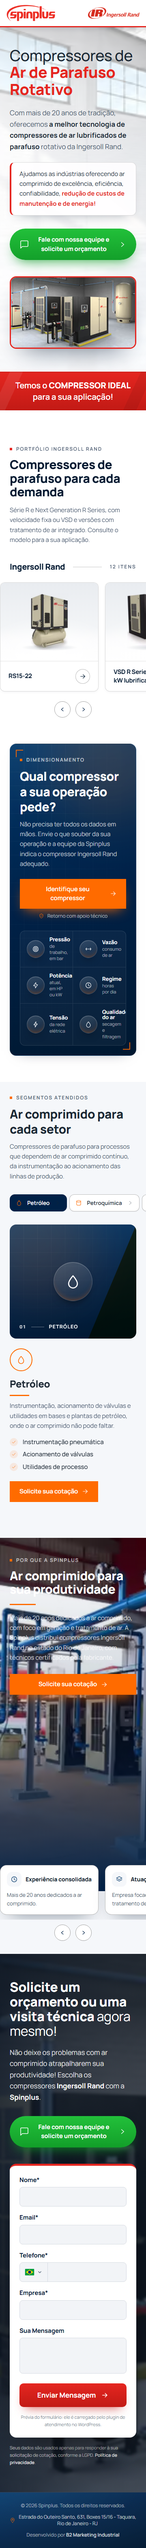
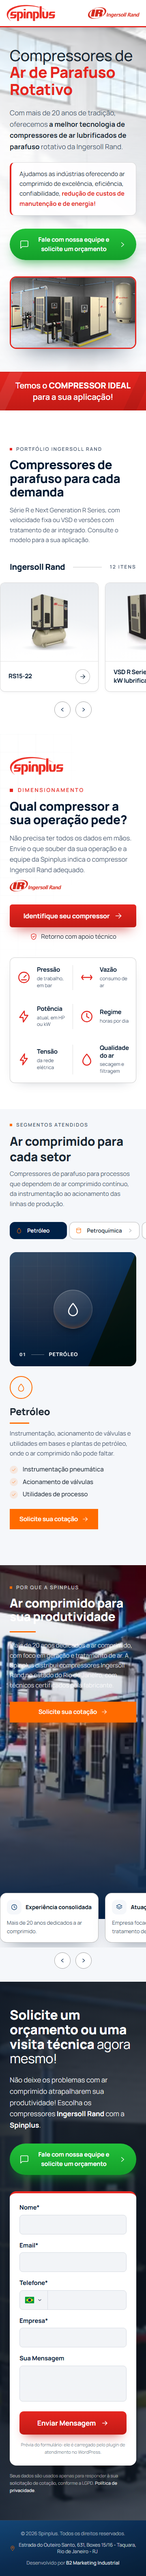
feat: dimensionamento no layout aprovado pela Spinplus
Seção clara com desenho técnico da sala de compressores, logo Spinplus, título, logo Ingersoll Rand, botão vermelho e faixa branca com os 6 dados em ícones vermelhos.

Changed region(s): [[0.0, 0.0, 1.0, 0.9044], [0.0611, 0.9356, 0.825, 0.9979]]

diff --git a/src/data/sections/identificar.ts b/src/data/sections/identificar.ts
@@ -9,6 +9,10 @@
  * inferidos (o briefing não traz a lista do comercial). Confirmar com a Spinplus.
  */
 import type { IconName } from '@data/icons'
+import type { Photo } from '@data/types'
+
+// Desenho técnico gerado das bordas da foto da sala de compressores (layout do cliente).
+import esboco from '@assets/identificar/esboco-sala.png'
 
 export interface SupportItem {
   icon: IconName
@@ -21,8 +25,10 @@ export const supportPanel = {
   title: 'Qual compressor a sua operação pede?',
   text: 'Não precisa ter todos os dados em mãos. Envie o que souber da sua operação e a equipe da Spinplus indica o compressor Ingersoll Rand adequado.',
   microcopy: 'Retorno com apoio técnico',
+  /** Fundo decorativo à direita (desktop): desenho técnico da sala de compressores. */
+  sketch: { src: esboco, alt: '' },
   items: [
-    { icon: 'target', label: 'Pressão', hint: 'de trabalho, em bar' },
+    { icon: 'gauge', label: 'Pressão', hint: 'de trabalho, em bar' },
     { icon: 'move', label: 'Vazão', hint: 'consumo de ar' },
     { icon: 'bolt', label: 'Potência', hint: 'atual, em HP ou kW' },
     { icon: 'clock', label: 'Regime', hint: 'horas por dia' },
@@ -34,5 +40,6 @@ export const supportPanel = {
   title: string
   text: string
   microcopy: string
+  sketch: Photo
   items: readonly [SupportItem, SupportItem, SupportItem, SupportItem, SupportItem, SupportItem]
 }

diff --git a/src/data/icons.ts b/src/data/icons.ts
@@ -48,6 +48,8 @@ export const iconPaths = {
   wrench:
     '<path d="M14.7 6.3a4.5 4.5 0 0 0-6 5.3L3.5 16.8l3.2 3.2 5.2-5.2a4.5 4.5 0 0 0 5.3-6l-2.9 2.9-2.4-.6-.6-2.4 2.9-2.9Z"/>',
   clock: '<circle cx="12" cy="12" r="8.5"/><path d="M12 7v5.2l3.5 2"/>',
+  /** Manômetro: pressão de trabalho (Spinplus, painel de dimensionamento). */
+  gauge: '<circle cx="12" cy="12" r="8.5"/><path d="m12 12 3.6-3.6"/><path d="M8 16h8"/>',
   zap: '<path d="M13 3 6 13.5h5L10 21l7.5-10.5h-5L13 3Z"/>',
   'map-pin':
     '<path d="M12 21.5s7-6.6 7-11.8a7 7 0 1 0-14 0c0 5.2 7 11.8 7 11.8Z"/><circle cx="12" cy="9.7" r="2.4"/>',

diff --git a/docs/BRIEFING.md b/docs/BRIEFING.md
@@ -142,27 +142,29 @@ Aprovada pelo usuário em 15/10/2026 com a opção "inferir e publicar": Apoio e
 | Fundo do hero   | `src/assets/hero-fundo.jpg` | confirmado | galpão claro com janelas enviado pelo usuário em 15/10/2026 (1870×841), sob véu branco à esquerda   |
 | Logos de marcas | —                           | removido   | entrada 7: só o nome                                                                                |
 
-| Asset               | Arquivo                                     | Status     | Observação                                                                                                    |
-| ------------------- | ------------------------------------------- | ---------- | ------------------------------------------------------------------------------------------------------------- |
-| Fotos da vitrine    | `src/assets/vitrine/produto-01…12.jpg`      | confirmado | links do briefing; originais 300×300                                                                          |
-| Cenário             | `src/assets/diferenciais/cenario.jpg`       | provisório | sala de compressores do site do cliente                                                                       |
-| Pessoa recortada    | `src/assets/diferenciais/pessoa.png`        | provisório | **sem foto da equipe**: compressor R45 recortado do site no lugar. Pedir foto                                 |
-| Destaque da vitrine | `src/assets/vitrine/destaque-ingersoll.jpg` | provisório | recortado do modelo de layout enviado pelo usuário (716×300); trocar pelo arquivo original em alta, se houver |
+| Asset                             | Arquivo                                     | Status     | Observação                                                                                                    |
+| --------------------------------- | ------------------------------------------- | ---------- | ------------------------------------------------------------------------------------------------------------- |
+| Fotos da vitrine                  | `src/assets/vitrine/produto-01…12.jpg`      | confirmado | links do briefing; originais 300×300                                                                          |
+| Cenário                           | `src/assets/diferenciais/cenario.jpg`       | provisório | sala de compressores do site do cliente                                                                       |
+| Pessoa recortada                  | `src/assets/diferenciais/pessoa.png`        | provisório | **sem foto da equipe**: compressor R45 recortado do site no lugar. Pedir foto                                 |
+| Destaque da vitrine               | `src/assets/vitrine/destaque-ingersoll.jpg` | provisório | recortado do modelo de layout enviado pelo usuário (716×300); trocar pelo arquivo original em alta, se houver |
+| Desenho técnico (dimensionamento) | `src/assets/identificar/esboco-sala.png`    | confirmado | gerado por detecção de bordas da foto da sala de compressores (`heroBg.png`), 1600×750                        |
 
 ## Desvios do padrão
 
 Aprovados pelo usuário em 15/10/2026, a partir do modelo de layout que enviou para o topo da página.
 
-| Peça        | O que muda em relação ao padrão B2                                                                                                                                                                                                                                               | Consequência                                                                                                                                                                                                                            |
-| ----------- | -------------------------------------------------------------------------------------------------------------------------------------------------------------------------------------------------------------------------------------------------------------------------------- | --------------------------------------------------------------------------------------------------------------------------------------------------------------------------------------------------------------------------------------- |
-| Header      | fundo branco com filete vermelho, logo sem placa pendurada, selo "Mais de 20 anos de tradição / Suporte especializado" e logo Ingersoll Rand; **sem botão de cotação**                                                                                                           | some o CTA `header-cta`; o CTA do hero fica logo abaixo                                                                                                                                                                                 |
-| Hero        | claro, duas colunas (texto + foto emoldurada), H1 "Compressores de Ar de Parafuso Rotativo", botão verde, faixa vermelha "Temos o COMPRESSOR IDEAL para a sua aplicação!"; **sem coluna de chat**                                                                                | o shortcode do chat não aparece no hero; atendimento pelo botão `btn-slave-whats` (`hero-primary`)                                                                                                                                      |
-| Copy        | CTA e textos do material antigo do cliente ("Fale com nossa equipe…", "a melhor tecnologia…")                                                                                                                                                                                    | o briefing recomendava não reaproveitá-los; prevalece o pedido do cliente                                                                                                                                                               |
-| Cores       | vermelho da marca (`brand-red` #e52620) e verde do botão (`cta-green`) no header e no hero                                                                                                                                                                                       | o restante da página segue com o laranja do padrão                                                                                                                                                                                      |
-| Verificação | `scripts/check-lp.mjs` (A8 e especificação de LOGO/heroBg) passa a conferir as assinaturas desta versão                                                                                                                                                                          | o CI continua bloqueando alteração acidental de Header e Hero                                                                                                                                                                           |
-| Fonte       | Manrope servida pela própria página (`src/styles/fonts/`, pré-carregada no Layout) em vez do Google Fonts                                                                                                                                                                        | sem troca de fonte após a primeira pintura: CLS 0 (antes 0,18 no Lighthouse do CI)                                                                                                                                                      |
-| Vitrine     | layout do cliente: foto em close no canto (desktop), título em duas linhas, marcador e detalhes em vermelho, linha no cabeçalho da prateleira, cards com palco de estúdio e produtos maiores                                                                                     | `ProductShowcase.astro` editado na LP: **`npm run compose` o sobrescreve** com o da biblioteca — restaurar pelo git depois de recompor                                                                                                  |
-| Cotação     | faixa escura com a foto da sala de compressores; "Solicite um orçamento ou uma visita técnica agora mesmo!", texto e botão verde (`cotacao-primary`) à esquerda; formulário num card branco com filete vermelho à direita; **sem os 3 selos e sem o botão "Chamar no WhatsApp"** | o CTA `cotacao-whatsapp` virou `cotacao-primary` (atualizar no GTM). O formulário segue sendo o shortcode do plugin, com campos estilizados; onde o plugin não roda (Vercel) aparece uma prévia visual com aviso, sem campos de verdade |
+| Peça            | O que muda em relação ao padrão B2                                                                                                                                                                                                                                               | Consequência                                                                                                                                                                                                                            |
+| --------------- | -------------------------------------------------------------------------------------------------------------------------------------------------------------------------------------------------------------------------------------------------------------------------------- | --------------------------------------------------------------------------------------------------------------------------------------------------------------------------------------------------------------------------------------- |
+| Header          | fundo branco com filete vermelho, logo sem placa pendurada, selo "Mais de 20 anos de tradição / Suporte especializado" e logo Ingersoll Rand; **sem botão de cotação**                                                                                                           | some o CTA `header-cta`; o CTA do hero fica logo abaixo                                                                                                                                                                                 |
+| Hero            | claro, duas colunas (texto + foto emoldurada), H1 "Compressores de Ar de Parafuso Rotativo", botão verde, faixa vermelha "Temos o COMPRESSOR IDEAL para a sua aplicação!"; **sem coluna de chat**                                                                                | o shortcode do chat não aparece no hero; atendimento pelo botão `btn-slave-whats` (`hero-primary`)                                                                                                                                      |
+| Copy            | CTA e textos do material antigo do cliente ("Fale com nossa equipe…", "a melhor tecnologia…")                                                                                                                                                                                    | o briefing recomendava não reaproveitá-los; prevalece o pedido do cliente                                                                                                                                                               |
+| Cores           | vermelho da marca (`brand-red` #e52620) e verde do botão (`cta-green`) no header e no hero                                                                                                                                                                                       | o restante da página segue com o laranja do padrão                                                                                                                                                                                      |
+| Verificação     | `scripts/check-lp.mjs` (A8 e especificação de LOGO/heroBg) passa a conferir as assinaturas desta versão                                                                                                                                                                          | o CI continua bloqueando alteração acidental de Header e Hero                                                                                                                                                                           |
+| Fonte           | Manrope servida pela própria página (`src/styles/fonts/`, pré-carregada no Layout) em vez do Google Fonts                                                                                                                                                                        | sem troca de fonte após a primeira pintura: CLS 0 (antes 0,18 no Lighthouse do CI)                                                                                                                                                      |
+| Vitrine         | layout do cliente: foto em close no canto (desktop), título em duas linhas, marcador e detalhes em vermelho, linha no cabeçalho da prateleira, cards com palco de estúdio e produtos maiores                                                                                     | `ProductShowcase.astro` editado na LP: **`npm run compose` o sobrescreve** com o da biblioteca — restaurar pelo git depois de recompor                                                                                                  |
+| Cotação         | faixa escura com a foto da sala de compressores; "Solicite um orçamento ou uma visita técnica agora mesmo!", texto e botão verde (`cotacao-primary`) à esquerda; formulário num card branco com filete vermelho à direita; **sem os 3 selos e sem o botão "Chamar no WhatsApp"** | o CTA `cotacao-whatsapp` virou `cotacao-primary` (atualizar no GTM). O formulário segue sendo o shortcode do plugin, com campos estilizados; onde o plugin não roda (Vercel) aparece uma prévia visual com aviso, sem campos de verdade |
+| Dimensionamento | seção clara em vez do painel navy: desenho técnico da sala à direita, logo Spinplus, marcador e "DIMENSIONAMENTO" em vermelho, logo Ingersoll Rand ao lado do texto, botão vermelho e faixa branca com os 6 dados (ícone `gauge` acrescentado ao catálogo para Pressão)          | a página fica com um só bloco navy no miolo (Diferenciais); o `check:lp` não acusa porque lê o manifesto. `SupportPanel.astro` editado na LP: **`npm run compose` o sobrescreve** — restaurar pelo git                                  |
 
 ## Pendências para o cliente
 
